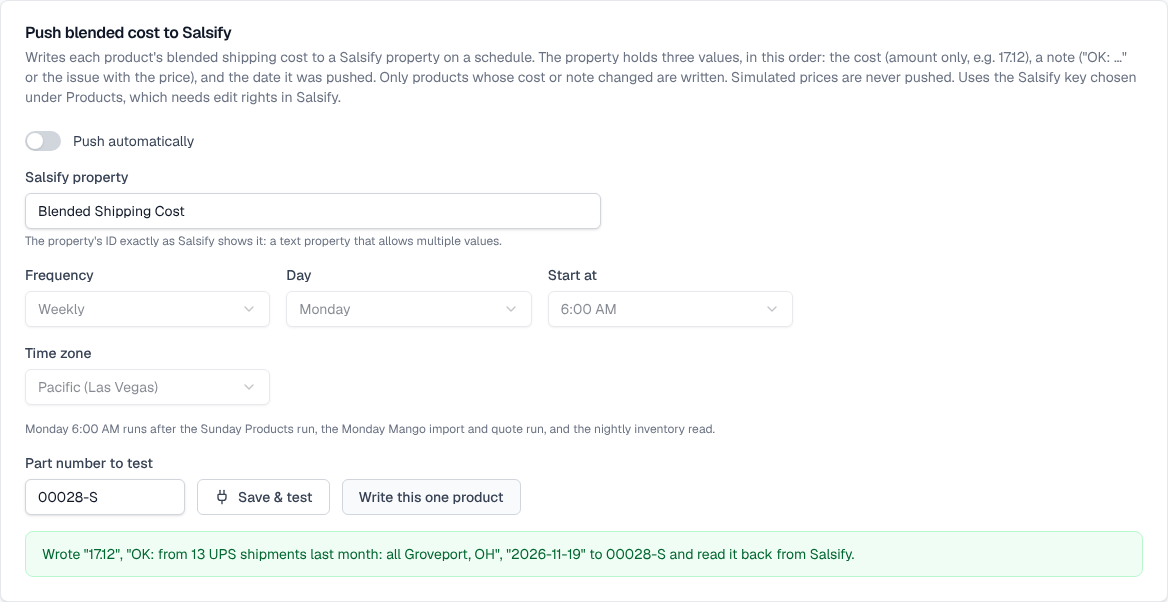
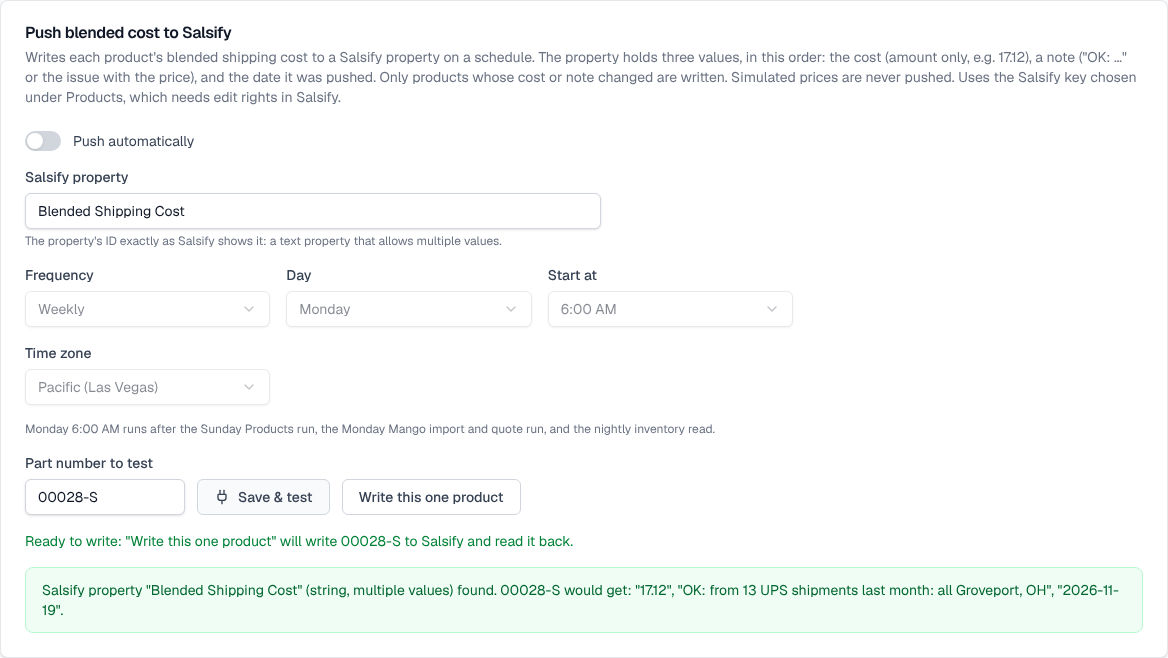
Salsify push: "Write this one product" always usable; help updated
The button was disabled until a test said the product could be written
(live mode, a live Products run and a cost), so it stayed grey with only a
tooltip as the reason. It's now enabled whenever a property and part are
entered; the server checks everything first (property exists and is text,
live mode, live run, part quoted with a cost) and says exactly what to fix.
After "Save & test", a line says "Ready to write" or "Can't write yet: …".

Help: the Salsify push section is rewritten (what's written and every note,
setup with the test, what written/unchanged/skipped/failed mean, a
troubleshooting table), with a new screenshot, and the Shipping guide
explains the Salsify push card.

Claude-Session: https://claude.ai/code/session_01BEHV9ScssjWxbAnSVd5wjC

diff --git a/src/lib/shipping/salsify-push.ts b/src/lib/shipping/salsify-push.ts
@@ -31,10 +31,10 @@ async function sourceRun() {
 /** Why a push can't run now, or null if it can. */
 export async function pushBlocker(s: ShippingRatesSettings): Promise<string | null> {
   if (!s.salsifyPush.property) return "Set the Salsify property first (Settings → Push blended cost to Salsify).";
-  if (s.mode !== "live") return "The tool is in simulated mode; simulated prices are never pushed to Salsify.";
+  if (s.mode !== "live") return "The tool is in simulated mode; simulated prices are never pushed to Salsify. Switch Rates source to Live (Settings) once UPS and Endicia test successfully.";
   const run = await sourceRun();
   if (!run) return "There's no Products run to take blended costs from yet.";
-  if (run.mode !== "live") return "The newest Products run used simulated prices, so there's nothing to push. Run Products in live mode first.";
+  if (run.mode !== "live") return "The newest Products run used simulated prices, so there's nothing to push. Run Products in live mode first (Products tab → Run now).";
   if (!(await loadMix())) return "A processed cost report is needed for the zone mix (Cost reports tab).";
   return null;
 }
@@ -52,13 +52,24 @@ export async function valueFor(s: ShippingRatesSettings, partNumber: string): Pr
   return { value, reason: value ? null : blended ? "No zone could be priced, so there's no cost." : "A processed cost report is needed for the zone mix.", runMode: run.mode };
 }
 
-/** Writes one product now (Settings "Write this one product") and reads it back. */
+/** The property's problems for this push: missing (error) or the wrong kind (error/warning). */
+async function checkProperty(s: ShippingRatesSettings, key: string) {
+  const prop = await getSalsifyProperty(key, s.salsify.orgId, s.salsifyPush.property);
+  if (!prop) return { prop: null, error: `Salsify has no property "${s.salsifyPush.property}". Use the property's ID exactly as Salsify shows it.`, warnings: [] as string[] };
+  const error = prop.dataType && !/string|text|rich/i.test(prop.dataType) ? `"${prop.id}" is a ${prop.dataType} property, but the note and date are text: use a text property that allows multiple values.` : null;
+  const warnings = prop.multiValued === false ? ["it holds a single value, but three are written (cost, note, date): allow multiple values on it"] : [];
+  return { prop, error, warnings };
+}
+
+/** Writes one product now (Settings "Write this one product") and reads it back. Every check explains itself. */
 export async function pushOne(s: ShippingRatesSettings, actor: Actor, partNumber: string) {
   const blocker = await pushBlocker(s);
   if (blocker) throw new Error(blocker);
+  const { key } = await resolveKey(s, actor);
+  const { error } = await checkProperty(s, key);
+  if (error) throw new Error(error);
   const { value, reason } = await valueFor(s, partNumber);
   if (!value) throw new Error(reason ?? "Nothing to push for this product.");
-  const { key } = await resolveKey(s, actor);
   const values = pushValues(value, usageDay());
   await updateSalsifyProduct(key, s.salsify.orgId, partNumber, s.salsifyPush.property, values);
   await prisma.salsifyPush.upsert({ where: { partNumber }, create: { partNumber, ...value, pushedAt: new Date() }, update: { ...value, pushedAt: new Date(), lastError: null, lastErrorAt: null } });
@@ -183,17 +194,16 @@ export type SalsifyPushStatus = Awaited<ReturnType<typeof salsifyPushStatus>>;
 export async function testSalsifyPush(s: ShippingRatesSettings, actor: Actor, partNumber: string) {
   if (!s.salsifyPush.property) throw new Error("Enter the Salsify property first.");
   const { key } = await resolveKey(s, actor);
-  const prop = await getSalsifyProperty(key, s.salsify.orgId, s.salsifyPush.property);
-  if (!prop) throw new Error(`Salsify has no property "${s.salsifyPush.property}". Use the property's ID exactly as Salsify shows it.`);
-  const warnings: string[] = [];
-  if (prop.dataType && !/string|text|rich/i.test(prop.dataType)) warnings.push(`it's a ${prop.dataType} property, but the note and date are text: use a text (string) property that holds multiple values`);
-  if (prop.multiValued === false) warnings.push("it holds a single value, but three are written (cost, note, date): allow multiple values on it");
+  const { prop, error, warnings } = await checkProperty(s, key);
+  if (!prop) throw new Error(error!);
   const { value, reason, runMode } = await valueFor(s, partNumber);
   const parts = [`Salsify property "${prop.id}"${prop.dataType ? ` (${prop.dataType}${prop.multiValued ? ", multiple values" : ""})` : ""} found.`];
-  if (warnings.length) parts.push(`Check it: ${warnings.join("; ")}.`);
+  if (error || warnings.length) parts.push(`Check it: ${[error, ...warnings].filter(Boolean).join("; ")}`);
   if (value) parts.push(`${partNumber} would get: ${pushValues(value, usageDay()).map((v) => `"${v}"`).join(", ")}${runMode !== "live" ? " (from simulated prices, which are never pushed)" : ""}.`);
   else parts.push(`${partNumber}: ${reason}`);
-  return { ok: warnings.length === 0, message: parts.join(" "), canWrite: !!value && runMode === "live" && s.mode === "live" };
+  // what would stop "Write this one product" (null = ready); the button still works and gives the same reason
+  const writeBlocker = (await pushBlocker(s)) ?? error ?? (value ? null : reason);
+  return { ok: !error && warnings.length === 0, message: parts.join(" "), writeBlocker };
 }
 
 /** Called every hour on the hour by the app scheduler. */

diff --git a/src/app/(app)/tools/shipping-rates/settings/settings-client.tsx b/src/app/(app)/tools/shipping-rates/settings/settings-client.tsx
@@ -180,7 +180,8 @@ export function ShippingSettingsClient({ initial, autoZips, keyUsers }: { initia
   const [invPart, setInvPart] = useState("");
   const [salsifyPush, setSalsifyPush] = useState(initial.salsifyPush);
   const [pushPart, setPushPart] = useState("");
-  const [canWriteOne, setCanWriteOne] = useState(false);
+  /** After a test: why "Write this one product" would fail ("" = ready), or null before any test. */
+  const [writeBlocker, setWriteBlocker] = useState<string | null>(null);
   const [msg, setMsg] = useState<{ type: "success" | "error"; text: string } | null>(null);
   const [test, setTest] = useState<Record<string, { ok: boolean; warn?: boolean; text: string } | "busy">>({});
   const [busy, setBusy] = useState(false);
@@ -276,12 +277,12 @@ export function ShippingSettingsClient({ initial, autoZips, keyUsers }: { initia
     if (!(await save())) return;
     setTest((t) => ({ ...t, PUSH: "busy" }));
     try {
-      const r = await apiFetch<{ ok: boolean; message: string; canWrite?: boolean }>("/api/tools/shipping-rates/settings/salsify-push-test", { method: "POST", json: { partNumber: pushPart, write } });
+      const r = await apiFetch<{ ok: boolean; message: string; writeBlocker?: string | null }>("/api/tools/shipping-rates/settings/salsify-push-test", { method: "POST", json: { partNumber: pushPart, write } });
       setTest((t) => ({ ...t, PUSH: { ok: true, warn: !r.ok, text: r.message } }));
-      if (!write) setCanWriteOne(!!r.canWrite);
+      if (!write) setWriteBlocker(r.writeBlocker ?? "");
     } catch (err) {
       setTest((t) => ({ ...t, PUSH: { ok: false, text: (err as Error).message } }));
-      setCanWriteOne(false);
+      if (!write) setWriteBlocker(null);
     }
   }
 
@@ -613,7 +614,7 @@ export function ShippingSettingsClient({ initial, autoZips, keyUsers }: { initia
           </label>
           <div className="max-w-xl">
             <Label htmlFor="push-prop">Salsify property</Label>
-            <Input id="push-prop" value={salsifyPush.property} onChange={(e) => { setSalsifyPush({ ...salsifyPush, property: e.target.value }); setCanWriteOne(false); }} placeholder="e.g. Blended Shipping Cost" />
+            <Input id="push-prop" value={salsifyPush.property} onChange={(e) => { setSalsifyPush({ ...salsifyPush, property: e.target.value }); setWriteBlocker(null); }} placeholder="e.g. Blended Shipping Cost" />
             <p className="text-xs text-gray-500 mt-1">The property&apos;s ID exactly as Salsify shows it: a text property that allows multiple values.</p>
           </div>
           <div className="grid gap-4 sm:grid-cols-3 max-w-3xl">
@@ -681,15 +682,20 @@ export function ShippingSettingsClient({ initial, autoZips, keyUsers }: { initia
           <div className="flex flex-wrap items-end gap-3">
             <div className="w-40">
               <Label htmlFor="push-part">Part number to test</Label>
-              <Input id="push-part" value={pushPart} onChange={(e) => { setPushPart(e.target.value.trim()); setCanWriteOne(false); }} placeholder="e.g. 56831" />
+              <Input id="push-part" value={pushPart} onChange={(e) => { setPushPart(e.target.value.trim()); setWriteBlocker(null); }} placeholder="e.g. 56831" />
             </div>
             <Button type="button" variant="outline" onClick={() => testPush(false)} disabled={busy || !pushPart || !salsifyPush.property || test.PUSH === "busy"}>
               <Plug className="h-4 w-4" /> {test.PUSH === "busy" ? "Working…" : "Save & test"}
             </Button>
-            <Button type="button" variant="outline" onClick={() => testPush(true)} disabled={busy || !canWriteOne || test.PUSH === "busy"} title={canWriteOne ? "Write this product's value to Salsify now and read it back" : "Test first (needs live prices)"}>
+            <Button type="button" variant="outline" onClick={() => testPush(true)} disabled={busy || !pushPart || !salsifyPush.property || test.PUSH === "busy"} title="Write this product's value to Salsify now and read it back">
               Write this one product
             </Button>
           </div>
+          {writeBlocker !== null && (
+            <p className={cn("text-sm", writeBlocker ? "text-amber-700" : "text-green-700")}>
+              {writeBlocker ? `Can't write yet: ${writeBlocker}` : `Ready to write: "Write this one product" will write ${pushPart} to Salsify and read it back.`}
+            </p>
+          )}
           <TestResult carrier="PUSH" />
         </CardContent>
       </Card>

diff --git a/tests/db/salsify-push.test.ts b/tests/db/salsify-push.test.ts
@@ -57,7 +57,10 @@ describe.skipIf(!enabled)("Blended cost push to Salsify (database)", async () =>
       "fetch",
       vi.fn(async (url: string, init: RequestInit = {}) => {
         const path = new URL(url).pathname;
-        if (path.includes("/properties/")) return new Response(JSON.stringify({ "salsify:id": "Blended Shipping Cost", "salsify:data_type": "string", "salsify:is_multi_valued": true }));
+        if (path.includes("/properties/"))
+          return decodeURIComponent(path.split("/").pop()!) === "Blended Shipping Cost"
+            ? new Response(JSON.stringify({ "salsify:id": "Blended Shipping Cost", "salsify:data_type": "string", "salsify:is_multi_valued": true }))
+            : new Response("{}", { status: 404 });
         const part = decodeURIComponent(path.split("/").pop()!);
         if (part === "MISSING") return new Response("{}", { status: 404 });
         if (init.method === "PUT") {
@@ -103,10 +106,22 @@ describe.skipIf(!enabled)("Blended cost push to Salsify (database)", async () =>
   it("tests the property, writes one product and reads it back", async () => {
     const { getSetting } = await import("@/lib/settings");
     const t = await testSalsifyPush(await getSetting("shippingRates"), user, "A1");
-    expect(t).toMatchObject({ ok: true, canWrite: true });
+    expect(t).toMatchObject({ ok: true, writeBlocker: null });
     expect(t.message).toMatch(/A1 would get: "16.00", "No Mango data: company-wide split", "\d{4}-\d{2}-\d{2}"/);
     const one = await pushOne(await getSetting("shippingRates"), user, "A1");
     expect(one.readBack).toEqual(one.values);
+  });
+
+  it("explains why one product can't be written instead of greying the button out", async () => {
+    const { getSetting } = await import("@/lib/settings");
+    const s = await getSetting("shippingRates");
+    await expect(pushOne(s, user, "NOT-ON-LIST")).rejects.toThrow("NOT-ON-LIST isn't in the newest Products run");
+    await expect(pushOne(s, user, "N1")).rejects.toThrow("N1 wasn't quoted: Salsify has no weight");
+    await expect(pushOne({ ...s, salsifyPush: { ...s.salsifyPush, property: "Nope" } }, user, "A1")).rejects.toThrow('Salsify has no property "Nope"');
+    await expect(pushOne({ ...s, mode: "simulated" }, user, "A1")).rejects.toThrow(/simulated mode/);
+    const t = await testSalsifyPush({ ...s, mode: "simulated" }, user, "A1");
+    expect(t.writeBlocker).toMatch(/simulated mode/);
+    expect((await testSalsifyPush(s, user, "N1")).writeBlocker).toMatch(/wasn't quoted/);
   });
 
   it("never pushes simulated prices", async () => {

diff --git a/src/content/help/shipping-rates-admin.md b/src/content/help/shipping-rates-admin.md
@@ -80,37 +80,74 @@ If Mango's page layout changes, the item is recorded as **couldn't be read** (li
 
 ## Push blended cost to Salsify
 
-Once a week (Monday 6:00 AM by default), each product's **blended shipping cost** is written to a Salsify property, so it's on the product record for ROIs and channel pricing.
+Each product's **blended shipping cost** is written to a Salsify property on a schedule (weekly, Monday 6:00 AM Pacific by default), so it's on the product record for ROIs and channel pricing. **Push now** on the Products tab runs it on demand.
 
 ![Push blended cost to Salsify](images/salsify-push.png)
 
-**Set up the property in Salsify first.** It must be a **text** property that **allows multiple values**. Each product gets three values, always in this order:
+### What's written
+
+One Salsify property gets three values per product, always in this order:
 
 | # | Value | Example |
 | --- | --- | --- |
 | 1 | The blended cost, amount only | `17.12` |
-| 2 | A note: `OK: …` with how the warehouse split was decided, or the issue with the price | `OK: from 13 UPS shipments last month: all Groveport, OH` |
+| 2 | A note: `OK: …` with how the warehouse split was decided, or every issue with the price | `OK: from 13 UPS shipments last month: all Groveport, OH` |
 | 3 | The date it was pushed (Pacific) | `2026-11-23` |
 
-The note lists every issue, separated by "; ":
-- `Incomplete: only 62% of orders priced …`: some zones are over a carrier's weight limit or failed. **The cost is still pushed**, so check it.
-- `Stocked in Las Vegas, NV only; may understate`: the simple version, see the Shipping guide.
-- `No Mango data: company-wide split` or `Few shipments (2)`: the warehouse split is a fallback.
+The note is never empty, so the cost is always the 1st value and the date the 3rd. Possible issues, joined with "; ":
 
-**How it runs:**
-- **Only changed values are written.** A product is written when its cost (to the cent) or its note changed since the last push; otherwise it's left alone, date included.
-- **Which products:** the newest live Products run. **Simulated prices are never pushed.** The push refuses to run in simulated mode, or if the newest Products run was simulated.
-- Products that weren't quoted (missing weight or size) or had no price at all are **skipped**, and listed on the Products tab.
-- **Whose key:** it uses the Salsify key chosen under **Products → Scheduled runs use the Salsify key of**. That person needs **edit rights** in Salsify. If the key can't edit products, the push stops after a few tries and says so.
+| Note | Meaning |
+| --- | --- |
+| `Incomplete: only 62% of orders priced …` | Some zones are over a carrier's weight limit or failed to quote. The cost is still pushed, from the zones that were priced: check it. |
+| `Stocked in Las Vegas, NV only; may understate` | One warehouse stocks it, so it ships everywhere from there; the estimate uses that warehouse's usual zone mix (the simple version). |
+| `No Mango data: company-wide split` | Mango couldn't be read for this item; the company-wide Las Vegas/Groveport split is used. |
+| `No stock or shipments in Mango: company-wide split` | Mango shows no stock and no UPS shipments last month. |
+| `Few shipments (2)` | Fewer than 5 UPS shipments last month and no stock in Mango: the split comes from those few shipments. |
 
-**Before turning it on:**
-1. Enter the **Salsify property** (its ID exactly as Salsify shows it) and a **part number**, then click **Save & test**. The test checks the property exists, is text and allows multiple values, and shows the three values that part would get.
-2. Click **Write this one product** to write that part for real; it's read back from Salsify to confirm.
-3. Turn on **Push automatically**.
+### Set it up
 
-The Products tab shows the last push: written, unchanged, skipped and failed counts, with the reasons, and **Push now** for managers.
+1. **In Salsify**, create a **text** property that **allows multiple values**, for example *Blended Shipping Cost*.
+2. **Check whose key is used.** Writes use the Salsify key chosen under **Settings → Products (Salsify list) → Scheduled runs use the Salsify key of**. A manual push or test uses your own key if you have one. That person needs **edit rights** on products in Salsify.
+3. **In Settings → Push blended cost to Salsify**, enter the property's ID exactly as Salsify shows it, and a part number from the Products list. Then click **Save & test**. It checks:
+   - the property exists, is text and allows multiple values;
+   - the three values that part would get.
+
+   Under the buttons it then says **Ready to write**, or **Can't write yet:** with the reason.
+4. **Click Write this one product.** It writes that part for real, reads it back from Salsify and confirms the values match. Look at the product in Salsify to see them. You can click it without testing first; if something isn't right, it says exactly what.
+5. **Turn on Push automatically** and Save. The schedule fields set when it runs.
+
+### Each push
+
+- **Which products:** every product in the **newest live Products run**.
+- **Only changed values are written.** A product is written when its cost (to the cent) or its note changed since the last push; otherwise it's left alone, date included. To re-write one product anyway, use **Write this one product**.
+- **Never simulated prices.** It won't run while the tool is in simulated mode, or if the newest Products run used simulated prices.
+- **The Products tab shows the last push:**
+  - **written**: the value changed and was saved to Salsify;
+  - **unchanged**: same cost and note as last time, so nothing was sent;
+  - **skipped**: not quoted (missing weight or size in Salsify), or no zone could be priced;
+  - **failed**: Salsify refused it.
+
+  Open *products not written* for each reason.
 
 ![Salsify push on the Products tab](images/salsify-push-card.png)
+
+### Troubleshooting
+
+| Message | Cause | Fix |
+| --- | --- | --- |
+| Salsify has no property "…" | The ID doesn't match a Salsify property | Copy the property ID from Salsify exactly (it's case-sensitive). |
+| "…" is a number property … use a text property | The property is numeric, but the note and date are text | Use a text property that allows multiple values. |
+| Check it: it holds a single value … | The property only keeps one value | Allow multiple values on the property in Salsify. |
+| The tool is in simulated mode … | Rates source is Simulated | Switch to Live once UPS and Endicia test successfully. |
+| The newest Products run used simulated prices … | The last Products run ran in simulated mode | Run Products again in live mode (Products tab → Run now). |
+| … isn't in the newest Products run | The part isn't on the Salsify list, or the run is older than the list change | Check the part is on the list; run Products again. |
+| … wasn't quoted: … | Missing weight or size in Salsify | Fill in the weight and box size in Salsify; run Products again. |
+| No zone could be priced, so there's no cost | Every quote failed (e.g. over every carrier's limit) | Check the product's weight and size; see its quotes on the Products tab. |
+| The Salsify key can't edit product … | That user's key has read-only rights | Give the user edit rights in Salsify, or choose another user's key under Products. A push stops after a few of these. |
+| Product … isn't in Salsify | The part number doesn't match a Salsify product ID | Check the product ID in Salsify. |
+| Written, but Salsify now shows … | Salsify changed the values on save (e.g. a single-value or numeric property) | Fix the property as above. |
+
+Salsify throttling and temporary errors are retried automatically; a product that still fails is listed with the reason and tried again next push.
 
 ## Salsify (product lookup) and the Products list
 

diff --git a/src/content/help/shipping-rates.md b/src/content/help/shipping-rates.md
@@ -61,6 +61,10 @@ Click a product to see the details: the cost, the range, how the split was decid
 
 ![Blended cost on Product quote](images/blended-quote.jpg)
 
+### Blended cost in Salsify
+
+If your managers have set it up, each product's blended cost is also written to Salsify every week, so you can use it there. It's one property with three values: the **cost**, a **note** (`OK: …` or the issue with the price, the same as the badges here), and the **date** it was pushed. The **Salsify push** card on the Products tab shows when it last ran and what was written. Only managers can push.
+
 ### Reality check
 
 At the bottom of the Products tab, the **Reality check** compares the blended method with what we actually paid. For each weight band, it takes the shipments in the latest cost report and compares:
